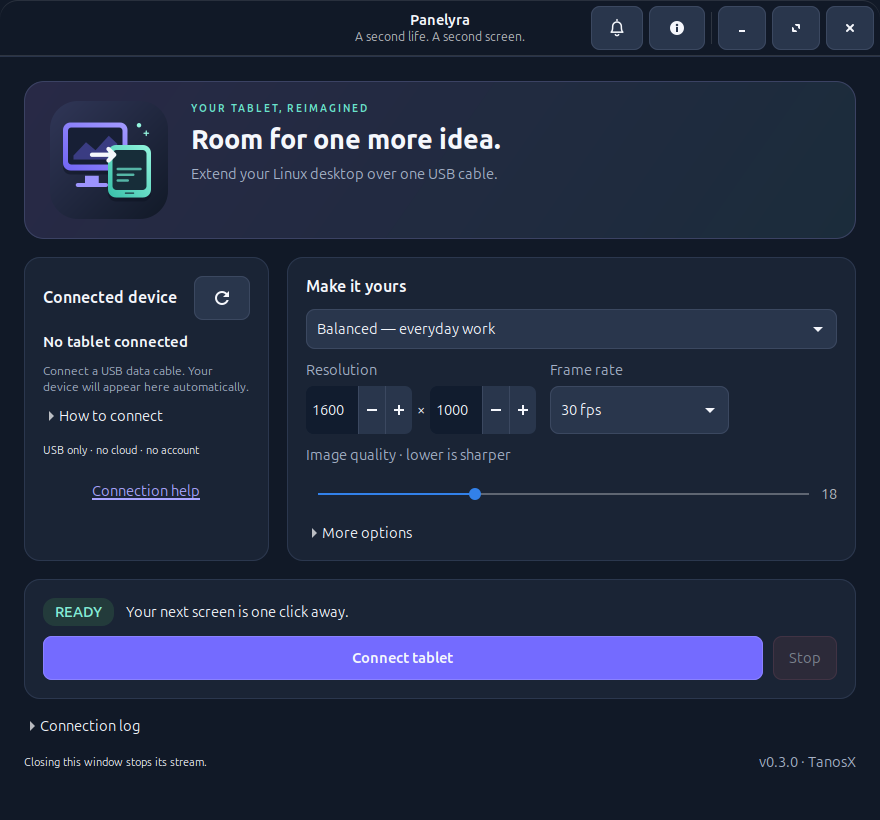
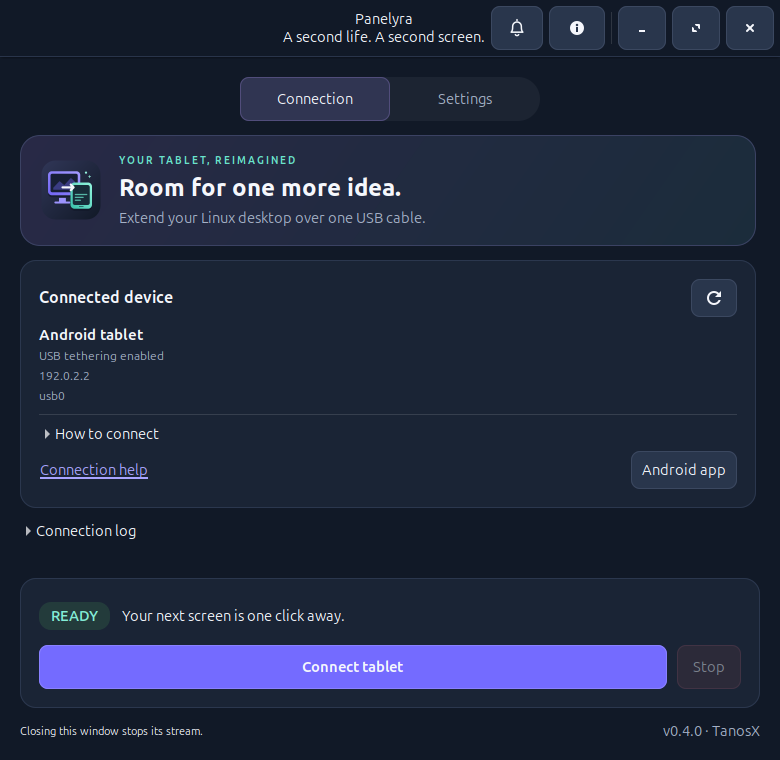
Refresh desktop screenshots and add bilingual section galleries

diff --git a/scripts/capture-screenshots.py b/scripts/capture-screenshots.py
@@ -1,0 +1,170 @@
+#!/usr/bin/env python3
+"""Render documentation screenshots from the real GTK widgets, using sample data.
+
+Run with the system Python and a GTK display (or dbus-run-session + xvfb-run).
+Only offscreen windows are built; no application activation, device discovery,
+stream, download server, notification fetch or user-preference write is allowed.
+The ready state illustrates the UI, not evidence of a successful display session.
+"""
+
+import argparse
+from contextlib import ExitStack
+from pathlib import Path
+import sys
+import tempfile
+import time
+from types import SimpleNamespace
+from unittest.mock import patch
+
+
+ROOT = Path(__file__).resolve().parents[1]
+sys.path.insert(0, str(ROOT))
+
+import gi
+gi.require_version("Gtk", "3.0")
+from gi.repository import Gtk
+
+from usbdisplay import __version__, launcher
+from usbdisplay.devices import Device
+from usbdisplay.network import UsbLink
+from usbdisplay.notifications import Source, Store
+from usbdisplay.notifications_ui import NotificationCenter
+from usbdisplay.settings import Settings
+
+
+class ScreenshotWindow(Gtk.OffscreenWindow):
+    # Offscreen surfaces have no native titlebar. Keep the real header widget
+    # for prepare_window() instead of asking GDK to decorate a non-native window.
+    def set_titlebar(self, header):
+        self.header = header
+
+    def get_titlebar(self):
+        return self.header
+
+
+def forbidden(*_args, **_kwargs):
+    raise RuntimeError("Screenshot rendering must not access live services or preferences")
+
+
+def settle():
+    deadline = time.monotonic() + 0.2
+    while time.monotonic() < deadline:
+        while Gtk.events_pending():
+            Gtk.main_iteration_do(False)
+        time.sleep(0.005)
+
+
+def prepare_window(window, width, height):
+    # OffscreenWindow omits client-side window decorations. Reuse its actual
+    # HeaderBar inside the offscreen surface, preserving the application UI.
+    header = window.get_titlebar()
+    window.set_titlebar(None)
+    content = window.get_child()
+    window.remove(content)
+    frame = Gtk.Box(orientation=Gtk.Orientation.VERTICAL)
+    frame.pack_start(header, False, False, 0)
+    frame.pack_start(content, True, True, 0)
+    window.add(frame)
+    window.set_size_request(width, height)
+    window.show_all()
+    # Avoid a focus underline/caret in a documentation still.
+    window.set_focus(None)
+    settle()
+
+
+def capture(window, path):
+    settle()
+    pixels = window.get_pixbuf()
+    if pixels is None:
+        raise RuntimeError("GTK did not render the offscreen window")
+    pixels.savev(str(path), "png", [], [])
+    print(f"{path.name}: {pixels.get_width()} × {pixels.get_height()}")
+
+
+def reveal_card(app, control):
+    scroll = app.pages.get_child_by_name("settings")
+    content = scroll.get_child().get_child()
+    card = control
+    while card.get_parent() is not content:
+        card = card.get_parent()
+        if card is None:
+            raise RuntimeError("Settings card is no longer in the screenshot page")
+    settle()
+    _, top = card.translate_coordinates(content, 0, 0)
+    adjustment = scroll.get_vadjustment()
+    adjustment.set_value(min(top, adjustment.get_upper() - adjustment.get_page_size()))
+    settle()
+
+
+def render_language(language, output, temporary):
+    settings = Settings(language=language, auto_connect=False,
+                        apk_path=f"panelyra-{__version__}-android-debug.apk",
+                        apk_interface="usb0")
+    source = Source("")
+    store = Store(path=temporary / f"notifications-{language}.json", source=source)
+    with ExitStack() as guards:
+        guards.enter_context(patch.object(launcher, "load", return_value=(settings, None)))
+        guards.enter_context(patch.object(launcher, "save", side_effect=forbidden))
+        guards.enter_context(patch.object(launcher, "WindowGeometry"))
+        guards.enter_context(patch.object(launcher, "NotificationCenter", side_effect=lambda app:
+                             NotificationCenter(app, source=source, store=store, fetcher=forbidden)))
+        guards.enter_context(patch.object(Gtk, "ApplicationWindow", side_effect=lambda **_:
+                             ScreenshotWindow()))
+        for name in ("start", "refresh_devices", "save_apk_settings"):
+            guards.enter_context(patch.object(launcher.Launcher, name, side_effect=forbidden))
+        for target in ("usbdisplay.network.discover_links", "usbdisplay.devices.discover_devices",
+                       "usbdisplay.internet.InternetController.inspect",
+                       "usbdisplay.internet.InternetController.set_enabled",
+                       "usbdisplay.download.DownloadServer.start"):
+            guards.enter_context(patch(target, side_effect=forbidden))
+
+        app = launcher.Launcher(auto_connect=False)
+        app.build_window()
+        try:
+            app.on_devices([Device("Android tablet", "usb", "usb-ready", "usb0", "192.0.2.2")], None)
+            app.internet.state = SimpleNamespace(enabled=False)
+            app.internet.render()
+            app.pages.set_transition_duration(0)
+            prepare_window(app.window, 780, 760)
+            capture(app.window, output / f"linux-{language}.png")
+
+            app.pages.set_visible_child_name("settings")
+            reveal_card(app, app.transport)
+            capture(app.window, output / f"linux-settings-network-{language}.png")
+            # Show the capture-rate option as part of the picture-settings view.
+            app.capture.get_parent().get_parent().set_expanded(True)
+            reveal_card(app, app.profile)
+            capture(app.window, output / f"linux-settings-picture-{language}.png")
+            reveal_card(app, app.language)
+            capture(app.window, output / f"linux-settings-general-{language}.png")
+
+            with patch.object(Gtk, "Window", side_effect=lambda **_: ScreenshotWindow()):
+                app.downloads.build_window()
+            app.downloads.links = [UsbLink("usb0", "192.0.2.1", 24, "192.0.2.2")]
+            app.downloads.render_interfaces()
+            app.downloads.render()
+            prepare_window(app.downloads.window, 700, 900)
+            capture(app.downloads.window, output / f"linux-android-app-{language}.png")
+        finally:
+            app.notifications.close()
+            app.internet.close()
+            app.downloads.close()
+            app.window_geometry.close()
+            app.window.destroy()
+
+
+def main():
+    parser = argparse.ArgumentParser(description=__doc__)
+    parser.add_argument("--output-dir", type=Path, default=ROOT / "docs/images")
+    args = parser.parse_args()
+    if not Gtk.init_check(None)[0]:
+        parser.exit(1, "GTK display unavailable; run inside a desktop session or xvfb-run.\n")
+    Gtk.Settings.get_default().set_property("gtk-enable-animations", False)
+    args.output_dir.mkdir(parents=True, exist_ok=True)
+    with tempfile.TemporaryDirectory(prefix="panelyra-screenshots-") as temporary:
+        for language in ("en", "ru"):
+            render_language(language, args.output_dir, Path(temporary))
+
+
+if __name__ == "__main__":
+    main()

diff --git a/docs/README.ru.md b/docs/README.ru.md
@@ -21,7 +21,32 @@ Panelyra добавляет монитор к рабочему столу Linux.
 - Колокольчик в Linux для новых версий и новостей разработчика; проверки GitHub
   можно отключить.
 
-![Panelyra в Linux](images/linux-ru.png)
+![Panelyra в Linux — вкладка «Подключение»](images/linux-ru.png)
+
+На вкладке **«Подключение»** собраны сведения о планшете, помощь и журнал.
+На скриншотах показаны демонстрационные данные устройства.
+
+<details>
+<summary>Настройки и установка приложения Android</summary>
+
+**Настройки → Подключение** — выбор способа подключения и переключатель
+интернета через планшет.
+
+![Настройки подключения](images/linux-settings-network-ru.png)
+
+**Настройки → Изображение** — разрешение, плавность и качество изображения.
+
+![Настройки изображения](images/linux-settings-picture-ru.png)
+
+**Настройки → Общие** — язык интерфейса и подключение при запуске.
+
+![Общие настройки](images/linux-settings-general-ru.png)
+
+**Приложение Android** — передача APK приложения на планшет по USB.
+
+![Установка приложения Android](images/linux-android-app-ru.png)
+
+</details>
 
 ## Состояние проекта
 

diff --git a/README.md b/README.md
@@ -28,7 +28,32 @@ CLI share the same video engine; a small Android app receives the picture.
 - A Linux notification bell for new versions and developer news, with optional
   GitHub checks once the public source is configured.
 
-![Panelyra on Linux](docs/images/linux-en.png)
+![Panelyra on Linux — Connection tab](docs/images/linux-en.png)
+
+The **Connection** tab keeps tablet details, connection help and the log together.
+Screenshots use sample device values.
+
+<details>
+<summary>Explore settings and Android app installation</summary>
+
+**Settings → Connection** — choose the connection method and toggle Internet
+access through the tablet.
+
+![Connection settings](docs/images/linux-settings-network-en.png)
+
+**Settings → Picture** — adjust resolution, frame rate and image quality.
+
+![Picture settings](docs/images/linux-settings-picture-en.png)
+
+**Settings → General** — choose the interface language and automatic connection.
+
+![General settings](docs/images/linux-settings-general-en.png)
+
+**Android app** — share the companion APK with the tablet over USB.
+
+![Android app installation](docs/images/linux-android-app-en.png)
+
+</details>
 
 ## Status and compatibility
 

diff --git a/CHANGELOG.md b/CHANGELOG.md
@@ -21,6 +21,9 @@
   sections; the tablet Internet control is in **Settings → Connection**.
 - Compact layout and wrapping labels prevent device details, Internet state,
   expanded sections and language changes from enlarging the window.
+- Refreshed English/Russian Linux screenshots for the Connection tab, each
+  settings section and Android app installation, with collapsible README
+  galleries using sample device values.
 
 ## 0.3.0 — source preview, 2026-10-07
 
